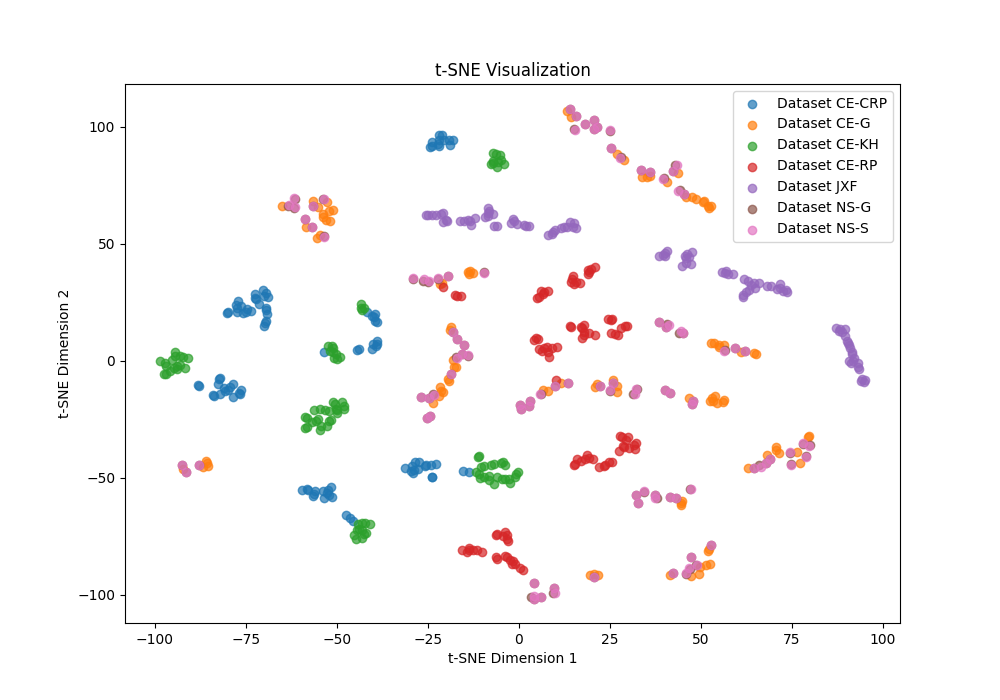
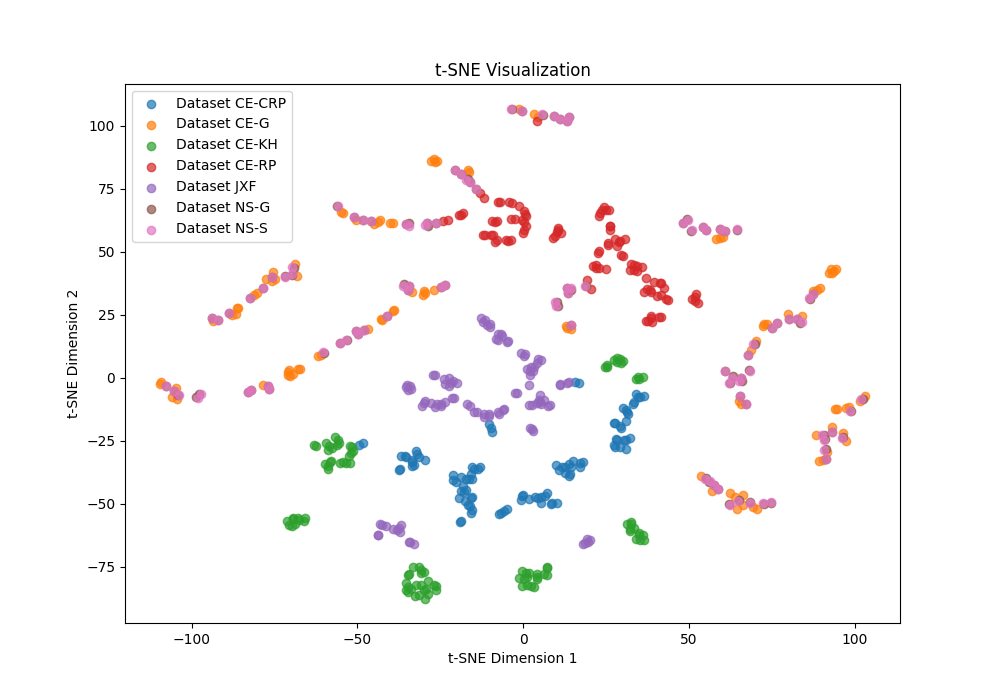
wip

diff --git a/scOT/inference-sahba.py b/scOT/inference-sahba.py
@@ -66,7 +66,7 @@ def create_predictions_plot_infer(inputs, predictions, labels, **kwargs):
 
         if _i % 3 == 0:
             im = ax.imshow(
-                inputs[j, i // 3, :152, 100:252].T,
+                inputs[j, i // 3].T,
                 cmap="gist_ncar",
                 origin="lower",
                 vmin=vmin[i//3],
@@ -77,7 +77,7 @@ def create_predictions_plot_infer(inputs, predictions, labels, **kwargs):
             
         elif _i % 3 == 1:
             im = ax.imshow(
-                labels[j, i // 3, :152, 100:252].T,
+                labels[j, i // 3].T,
                 cmap="gist_ncar",
                 origin="lower",
                 vmin=vmin[i//3],
@@ -88,7 +88,7 @@ def create_predictions_plot_infer(inputs, predictions, labels, **kwargs):
             
         else:
             im = ax.imshow(
-                predictions[j, i // 3, :152, 100:252].T,
+                predictions[j, i // 3].T,
                 cmap="gist_ncar",
                 origin="lower",
                 vmin=vmin[i//3],
@@ -101,78 +101,8 @@ def create_predictions_plot_infer(inputs, predictions, labels, **kwargs):
         ax.set_yticks([])
     
     plt.suptitle(f"Prediction after {dt} time steps", fontsize=25)
-    plt.savefig("./predictionL.png")
-    
+    plt.savefig("./predictionB.png")
 
-def create_predictions_plot_infer_multi(inputs, predictions, labels, **kwargs):
-    # assert predictions.shape[0] >= 4
-
-    indices = random.sample(range(predictions.shape[0]), 4)
-    predictions = predictions[indices]
-    labels = labels[indices]
-    # inputs = inputs[None, :,:,:]
-    
-    # i_time = kwargs['initial_time']
-    # o_time = kwargs['final_time']
-    # dt = o_time - i_time
-
-    fig = plt.figure(figsize=(40, 35))
-    grid = ImageGrid(
-        fig, 111, nrows_ncols=(predictions.shape[1], 3), axes_pad=0.5, 
-        cbar_mode="each", cbar_pad=0.2, cbar_size="4%", cbar_location="right",
-        share_all=True
-    )
-    
-    # for-loop to get the correct [vmax, vmin] for each channel
-    vmax=[]
-    vmin=[]
-    for i in range(predictions.shape[1]):
-        vmax.append(max(predictions[:,i,:,:].max(), labels[:,i,:,:].max(), inputs[:,i,:,:].max()))
-        vmin.append(min(predictions[:,i,:,:].min(), labels[:,i,:,:].min(), inputs[:,i,:,:].min()))
-    
-    
-    for _i, ax in enumerate(grid):
-        i = _i // 1 #num of sample
-        j = _i % 1  #num of sample
-
-        if _i % 3 == 0:
-            im = ax.imshow(
-                inputs[j, i // 3, :152, 100:252].T,
-                cmap="gist_ncar",
-                origin="lower",
-                vmin=vmin[i//3],
-                vmax=vmax[i//3],
-            )
-            ax.set_title(f"Initial State channel {i//3} @ time step {i_time}")
-            cbar = grid.cbar_axes[_i].colorbar(im)
-            
-        elif _i % 3 == 1:
-            im = ax.imshow(
-                labels[j, i // 3, :152, 100:252].T,
-                cmap="gist_ncar",
-                origin="lower",
-                vmin=vmin[i//3],
-                vmax=vmax[i//3],
-            )
-            ax.set_title(f"Ground Truth channel {i//3} @ time step {o_time}")
-            cbar = grid.cbar_axes[_i].colorbar(im)
-            
-        else:
-            im = ax.imshow(
-                predictions[j, i // 3, :152, 100:252].T,
-                cmap="gist_ncar",
-                origin="lower",
-                vmin=vmin[i//3],
-                vmax=vmax[i//3],
-            )
-            ax.set_title(f"Predicted channel {i//3} @ time step {o_time}")
-            cbar = grid.cbar_axes[_i].colorbar(im)
-
-        ax.set_xticks([])
-        ax.set_yticks([])
-    
-    plt.suptitle(f"Prediction after {dt} time steps", fontsize=25)
-    plt.savefig("./prediction.png")
 
 
 def get_trainer(

diff --git a/scOT/model.py b/scOT/model.py
@@ -49,6 +49,7 @@ from transformers.utils import ModelOutput
 from dataclasses import dataclass
 import torch
 from torch import nn
+import torch.nn.functional as F
 from typing import Optional, Union, Tuple, List
 import math
 import collections
@@ -1322,6 +1323,9 @@ class ScOT(Swinv2PreTrainedModel):
             if output_hidden_states is not None
             else self.config.output_hidden_states
         )
+        
+        # pixel_values = F.interpolate(pixel_values, size=(128, 128), mode='bilinear', align_corners=False)
+        # labels = F.interpolate(labels, size=(128, 128), mode='bilinear', align_corners=False)
 
         if pixel_values is None:
             raise ValueError("pixel_values cannot be None")
@@ -1351,13 +1355,7 @@ class ScOT(Swinv2PreTrainedModel):
         )
         
         import numpy as np
-        # np.save('CE-RP.npy', embedding_output.detach().cpu().numpy())
-        # np.save('CE-CRP.npy', embedding_output.detach().cpu().numpy())
-        # np.save('CE-KH.npy', embedding_output.detach().cpu().numpy())
-        # np.save('CE-Gauss.npy', embedding_output.detach().cpu().numpy())
-        np.save('NS-Sines.npy', embedding_output.detach().cpu().numpy())
-        # np.save('NS-Gauss.npy', embedding_output.detach().cpu().numpy())
-        # np.save('JXF.npy', embedding_output.detach().cpu().numpy())
+        # np.save('data/npys_for_tSNE/JXF.npy', embedding_output.detach().cpu().numpy())
 
         encoder_outputs = self.encoder(
             embedding_output,
@@ -1420,6 +1418,28 @@ class ScOT(Swinv2PreTrainedModel):
             else:
                 raise ValueError("p must be 1 or 2")
             if self.config.channel_slice_list_normalized_loss is not None:
+                
+                ###
+                # for i in range(len(self.config.channel_slice_list_normalized_loss) - 1):
+                    
+                #     a = [loss_fn(
+                #        prediction[:,self.config.channel_slice_list_normalized_loss[i] : self.config.channel_slice_list_normalized_loss[i + 1],],
+                #        labels[:,self.config.channel_slice_list_normalized_loss[i] : self.config.channel_slice_list_normalized_loss[i + 1],]
+                #     )
+                #          /
+                #     (
+                #         loss_fn(
+                #           labels[:,self.config.channel_slice_list_normalized_loss[i] : self.config.channel_slice_list_normalized_loss[i + 1],],
+                #           torch.zeros_like(labels[:,self.config.channel_slice_list_normalized_loss[i] : self.config.channel_slice_list_normalized_loss[i + 1],])
+                #         ) 
+                #         + 1e-1
+                #     )]
+                
+                
+                ###
+                
+                
+                
                 loss = torch.mean(
                     torch.stack(
                         [

diff --git a/scOT/train.py b/scOT/train.py
@@ -3,7 +3,8 @@ This script trains a scOT or pretrains Poseidon on a PDE dataset.
 Can be also used for finetuning Poseidon.
 Can be used in a single config or sweep setup.
 """
-
+import os
+os.environ["CUDA_VISIBLE_DEVICES"] = "7,6,5,4"
 import argparse
 import torch
 import wandb
@@ -11,7 +12,7 @@ import numpy as np
 import random
 import json
 import psutil
-import os
+
 
 os.environ["HDF5_USE_FILE_LOCKING"] = "FALSE"
 # temp = os.environ.get("ACCELERATE_USE_FSDP", "false")
@@ -32,10 +33,6 @@ SEED = 0
 torch.manual_seed(SEED)
 np.random.seed(SEED)
 random.seed(SEED)
-os.environ["CUDA_VISIBLE_DEVICES"] = "0,1,2"
-# accelerator = Accelerator()
-# device = torch.device("cuda" if torch.cuda.is_available() else "cpu")
-# device = accelerator.device
 
 MODEL_MAP = {
     "T": {
@@ -78,16 +75,16 @@ MODEL_MAP = {
 
 
 def create_predictions_plot(predictions, labels, wandb_prefix):
-    assert predictions.shape[0] >= 1
+    assert predictions.shape[0] >= 4
 
-    indices = random.sample(range(predictions.shape[0]), 1)
+    indices = random.sample(range(predictions.shape[0]), 4)
 
     predictions = predictions[indices]
     labels = labels[indices]
 
     fig = plt.figure()
     grid = ImageGrid(
-        fig, 111, nrows_ncols=(predictions.shape[1] + labels.shape[1], 1), axes_pad=0.1
+        fig, 111, nrows_ncols=(predictions.shape[1] + labels.shape[1], 4), axes_pad=0.1
     )
 
     vmax, vmin = max(predictions.max(), labels.max()), min(
@@ -95,9 +92,8 @@ def create_predictions_plot(predictions, labels, wandb_prefix):
     )
 
     for _i, ax in enumerate(grid):
-        i = _i // 1
-        # j = _i % 1
-        j=0
+        i = _i // 4
+        j = _i % 4
 
         if i % 2 == 0:
             ax.imshow(
@@ -119,7 +115,7 @@ def create_predictions_plot(predictions, labels, wandb_prefix):
         ax.set_xticks([])
         ax.set_yticks([])
 
-    plt.savefig("./theirpred.png")
+    plt.savefig("./pred.png")
     wandb.log({wandb_prefix + "/predictions": wandb.Image(fig)})
     
     plt.close()
@@ -409,6 +405,7 @@ if __name__ == "__main__":
 
     trainer = Trainer(
         model=model,
+        # model=ScOT.from_pretrained("./ckpts/scOT/poseidonB_lf_onlyP/checkpoint-644"),
         args=train_config,
         train_dataset=train_dataset,
         eval_dataset=eval_dataset,

diff --git a/scOT/problems/fluids/compressible.py b/scOT/problems/fluids/compressible.py
@@ -194,9 +194,9 @@ class CompressibleBase(BaseTimeDataset):
         super().__init__(*args, **kwargs)
         assert self.max_num_time_steps * self.time_step_size <= 200
 
-        self.N_max = 20000
-        self.N_val = 120
-        self.N_test = 240
+        self.N_max = 3
+        self.N_val = 1
+        self.N_test = 1
         self.resolution = 128 # here will be 352 in new data
         self.tracer = tracer
 
@@ -256,11 +256,11 @@ class CompressibleBase(BaseTimeDataset):
         #     .reshape(1, self.resolution, self.resolution)
         # )
 
-        inputs[3] = inputs[3] - self.mean_pressure
-        label[3] = label[3] - self.mean_pressure
+        # inputs[3] = inputs[3] - self.mean_pressure
+        # label[3] = label[3] - self.mean_pressure
 
-        inputs = (inputs - self.constants["mean"]) / self.constants["std"]
-        label = (label - self.constants["mean"]) / self.constants["std"]
+        # inputs = (inputs - self.constants["mean"]) / self.constants["std"]
+        # label = (label - self.constants["mean"]) / self.constants["std"]
 
         if self.tracer:
             input_tracer = (
@@ -332,7 +332,5 @@ class RiemannKelvinHelmholtz(CompressibleBase):
         
 class Bubble(CompressibleBase):
     def __init__(self, *args, tracer=False, **kwargs):
-        self.mean_pressure = 0.0
-        file_path = "/JXF.nc"
-        # file_path = "/JXF_onlyP.nc"
+        file_path = "/JXF_ND.nc"
         super().__init__(file_path, *args, tracer=tracer, **kwargs)

diff --git a/scOT/tSNE.py b/scOT/tSNE.py
@@ -11,13 +11,13 @@ import matplotlib.pyplot as plt
 
 # Generate example datasets
 np.random.seed(42)
-jxf = np.load("/home/szehisaadat/sahba_work/poseidon/JXF.npy").mean(axis=1)
-rp = np.load("/home/szehisaadat/sahba_work/poseidon/CE-RP.npy").mean(axis=1)
-crp = np.load("/home/szehisaadat/sahba_work/poseidon/CE-CRP.npy").mean(axis=1)
-kh = np.load("/home/szehisaadat/sahba_work/poseidon/CE-KH.npy").mean(axis=1)
-ceg = np.load("/home/szehisaadat/sahba_work/poseidon/CE-Gauss.npy").mean(axis=1)
-nsg = np.load("/home/szehisaadat/sahba_work/poseidon/NS-Gauss.npy").mean(axis=1)
-nss = np.load("/home/szehisaadat/sahba_work/poseidon/NS-Gauss.npy").mean(axis=1)
+jxf = np.load("/home/szehisaadat/sahba_work/poseidon/data/npys_for_tSNE/JXF.npy").mean(axis=1)
+rp = np.load("/home/szehisaadat/sahba_work/poseidon/data/npys_for_tSNE/CE-RP.npy").mean(axis=1)
+crp = np.load("/home/szehisaadat/sahba_work/poseidon/data/npys_for_tSNE/CE-CRP.npy").mean(axis=1)
+kh = np.load("/home/szehisaadat/sahba_work/poseidon/data/npys_for_tSNE/CE-KH.npy").mean(axis=1)
+ceg = np.load("/home/szehisaadat/sahba_work/poseidon/data/npys_for_tSNE/CE-Gauss.npy").mean(axis=1)
+nsg = np.load("/home/szehisaadat/sahba_work/poseidon/data/npys_for_tSNE/NS-Gauss.npy").mean(axis=1)
+nss = np.load("/home/szehisaadat/sahba_work/poseidon/data/npys_for_tSNE/NS-Gauss.npy").mean(axis=1)
 
 # Combine datasets
 data = np.vstack((jxf, rp, crp, kh, ceg, nsg, nss))

diff --git a/scOT/trainer.py b/scOT/trainer.py
@@ -314,13 +314,13 @@ class Trainer(Trainer_):
                             params["embeddings"].append(p)
                         elif n in decay_parameters and p.requires_grad:
                             params["standard"].append(p)
-                            # p.requires_grad=False
+                            p.requires_grad=False
                         elif p.requires_grad:
                             if n in time_embedding_params:
                                 params["time_embedding"].append(p)
                             else:
                                 params["no_weight_decay"].append(p)
-                                # p.requires_grad=False
+                                p.requires_grad=False
                     optimizer_grouped_parameters = [
                         {
                             "params": params["standard"],

diff --git a/scOT/problems/fluids/normalization_constants.py b/scOT/problems/fluids/normalization_constants.py
@@ -1,12 +1,12 @@
 import torch
 
 CONSTANTS = {
-    "mean": torch.tensor([0.80, 0.0, 0.0, 0.0]).unsqueeze(1).unsqueeze(1),
-    "std": torch.tensor([0.31, 0.391, 0.356, 0.185]).unsqueeze(1).unsqueeze(1),
-    # "mean": torch.tensor([0.0, 0.0, 0.0, 0.0]).unsqueeze(1).unsqueeze(1),
-    # "std": torch.tensor([0.0, 0.0, 0.0, 0.0]).unsqueeze(1).unsqueeze(1),
-    "time": 20.0,
-    # "time": 200.0,
+    # "mean": torch.tensor([0.80, 0.0, 0.0, 0.0]).unsqueeze(1).unsqueeze(1),
+    # "std": torch.tensor([0.31, 0.391, 0.356, 0.185]).unsqueeze(1).unsqueeze(1),
+    "mean": torch.tensor([0.0, 0.0, 0.0, 0.0]).unsqueeze(1).unsqueeze(1),
+    "std": torch.tensor([0.0, 0.0, 0.0, 0.0]).unsqueeze(1).unsqueeze(1),
+    # "time": 20.0,
+    "time": 200.0,
     # "tracer_mean": 0.19586183,
     # "tracer_std": 0.37,
 }

diff --git a/scOT/problems/base.py b/scOT/problems/base.py
@@ -113,7 +113,7 @@ def get_dataset(dataset, **kwargs):
         if "out" in dataset:
             default_time_settings = {"max_num_time_steps": 10, "time_step_size": 2}
         else:
-            default_time_settings = {"max_num_time_steps": 7, "time_step_size": 2} # it is passed through kwargs
+            default_time_settings = {"max_num_time_steps": 100, "time_step_size": 2} # it is passed through kwargs
         if "tracer" in dataset:
             tracer = True
         else:

diff --git a/scOT/inference.py b/scOT/inference.py
@@ -11,7 +11,7 @@ The script can be used in different modes:
 See the --help page for more information.
 """
 import os
-os.environ["CUDA_VISIBLE_DEVICES"] = "6"
+os.environ["CUDA_VISIBLE_DEVICES"] = "7"
 import argparse
 import torch
 import numpy as np
